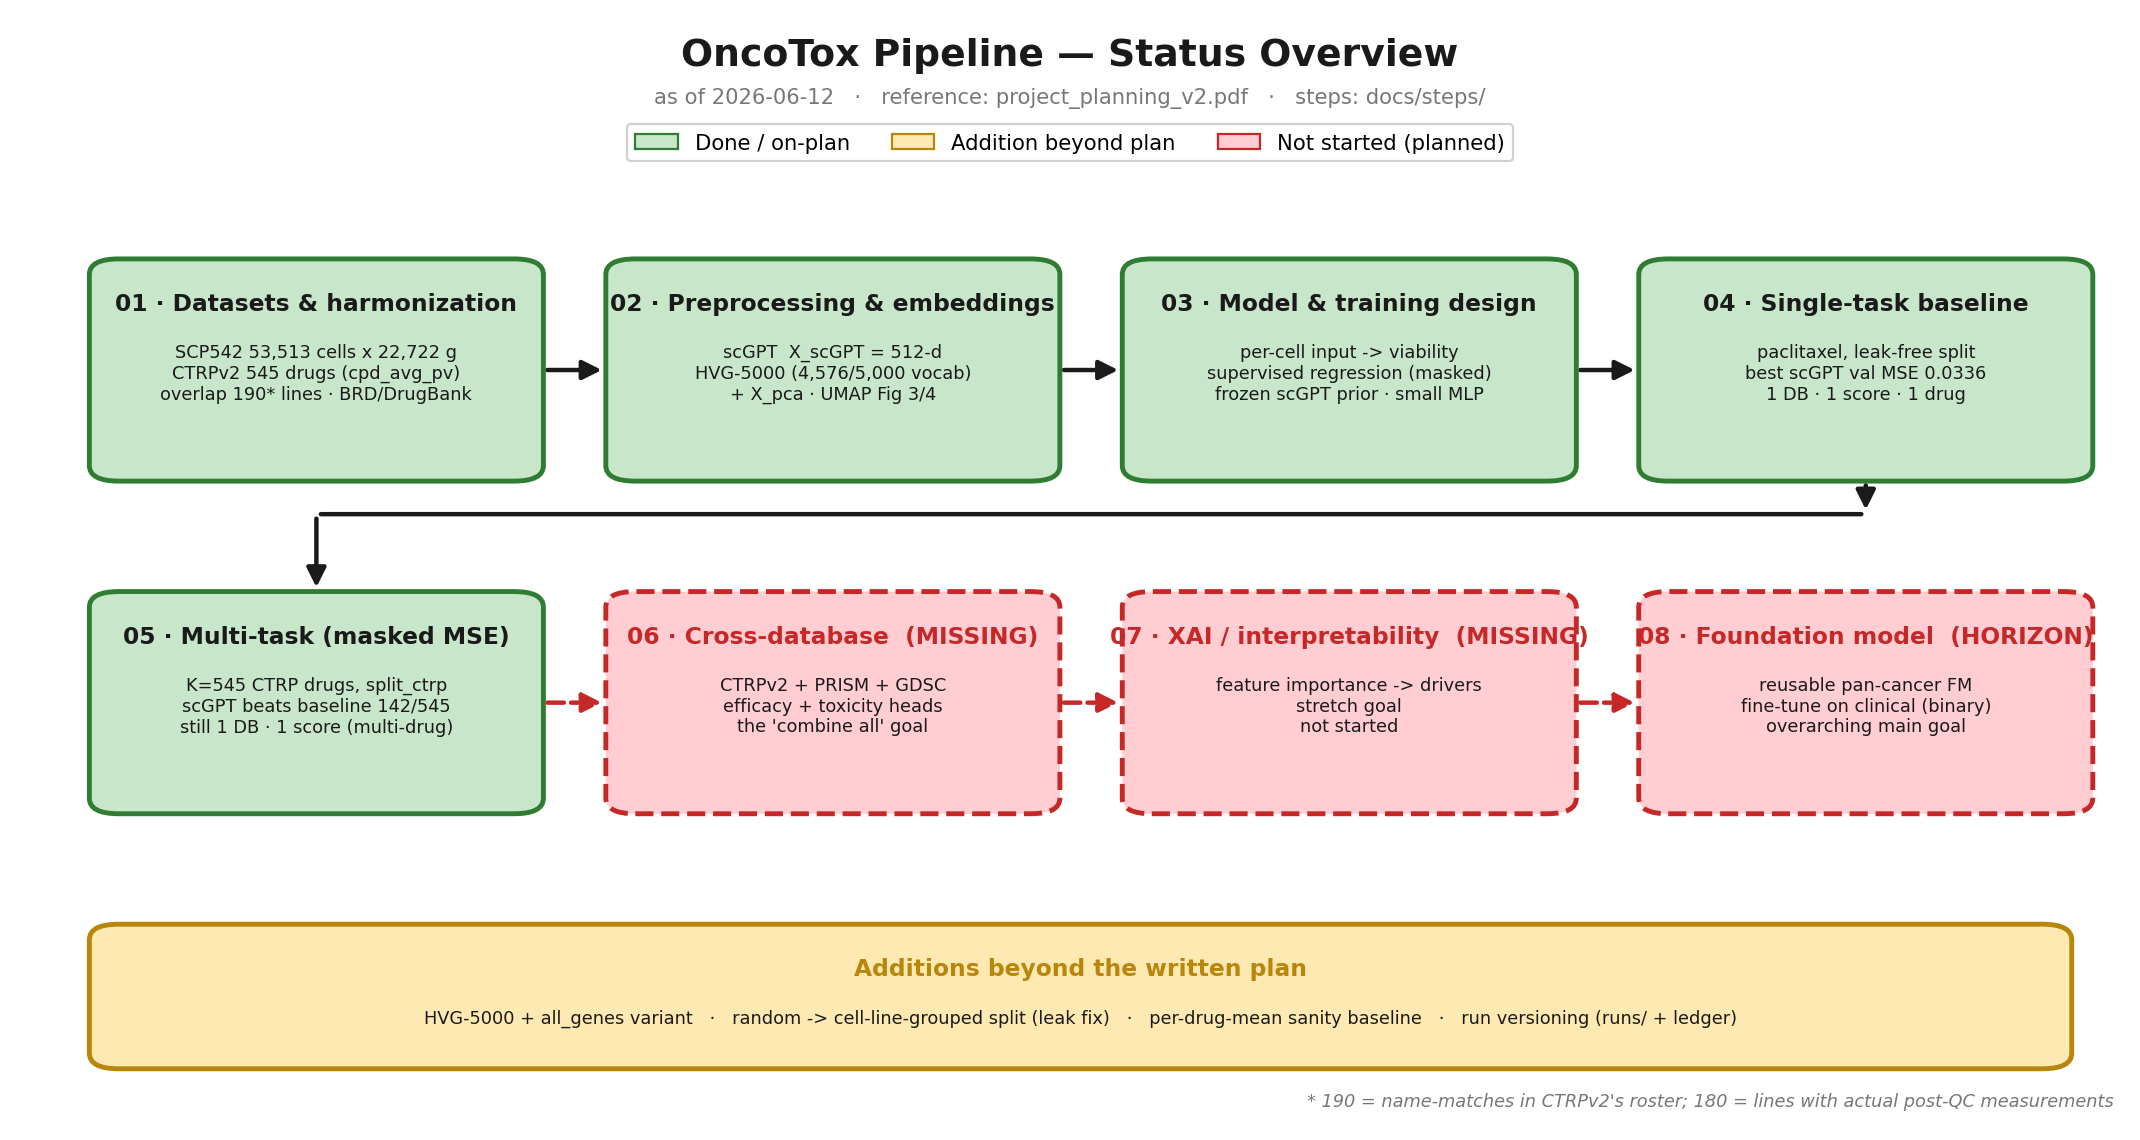
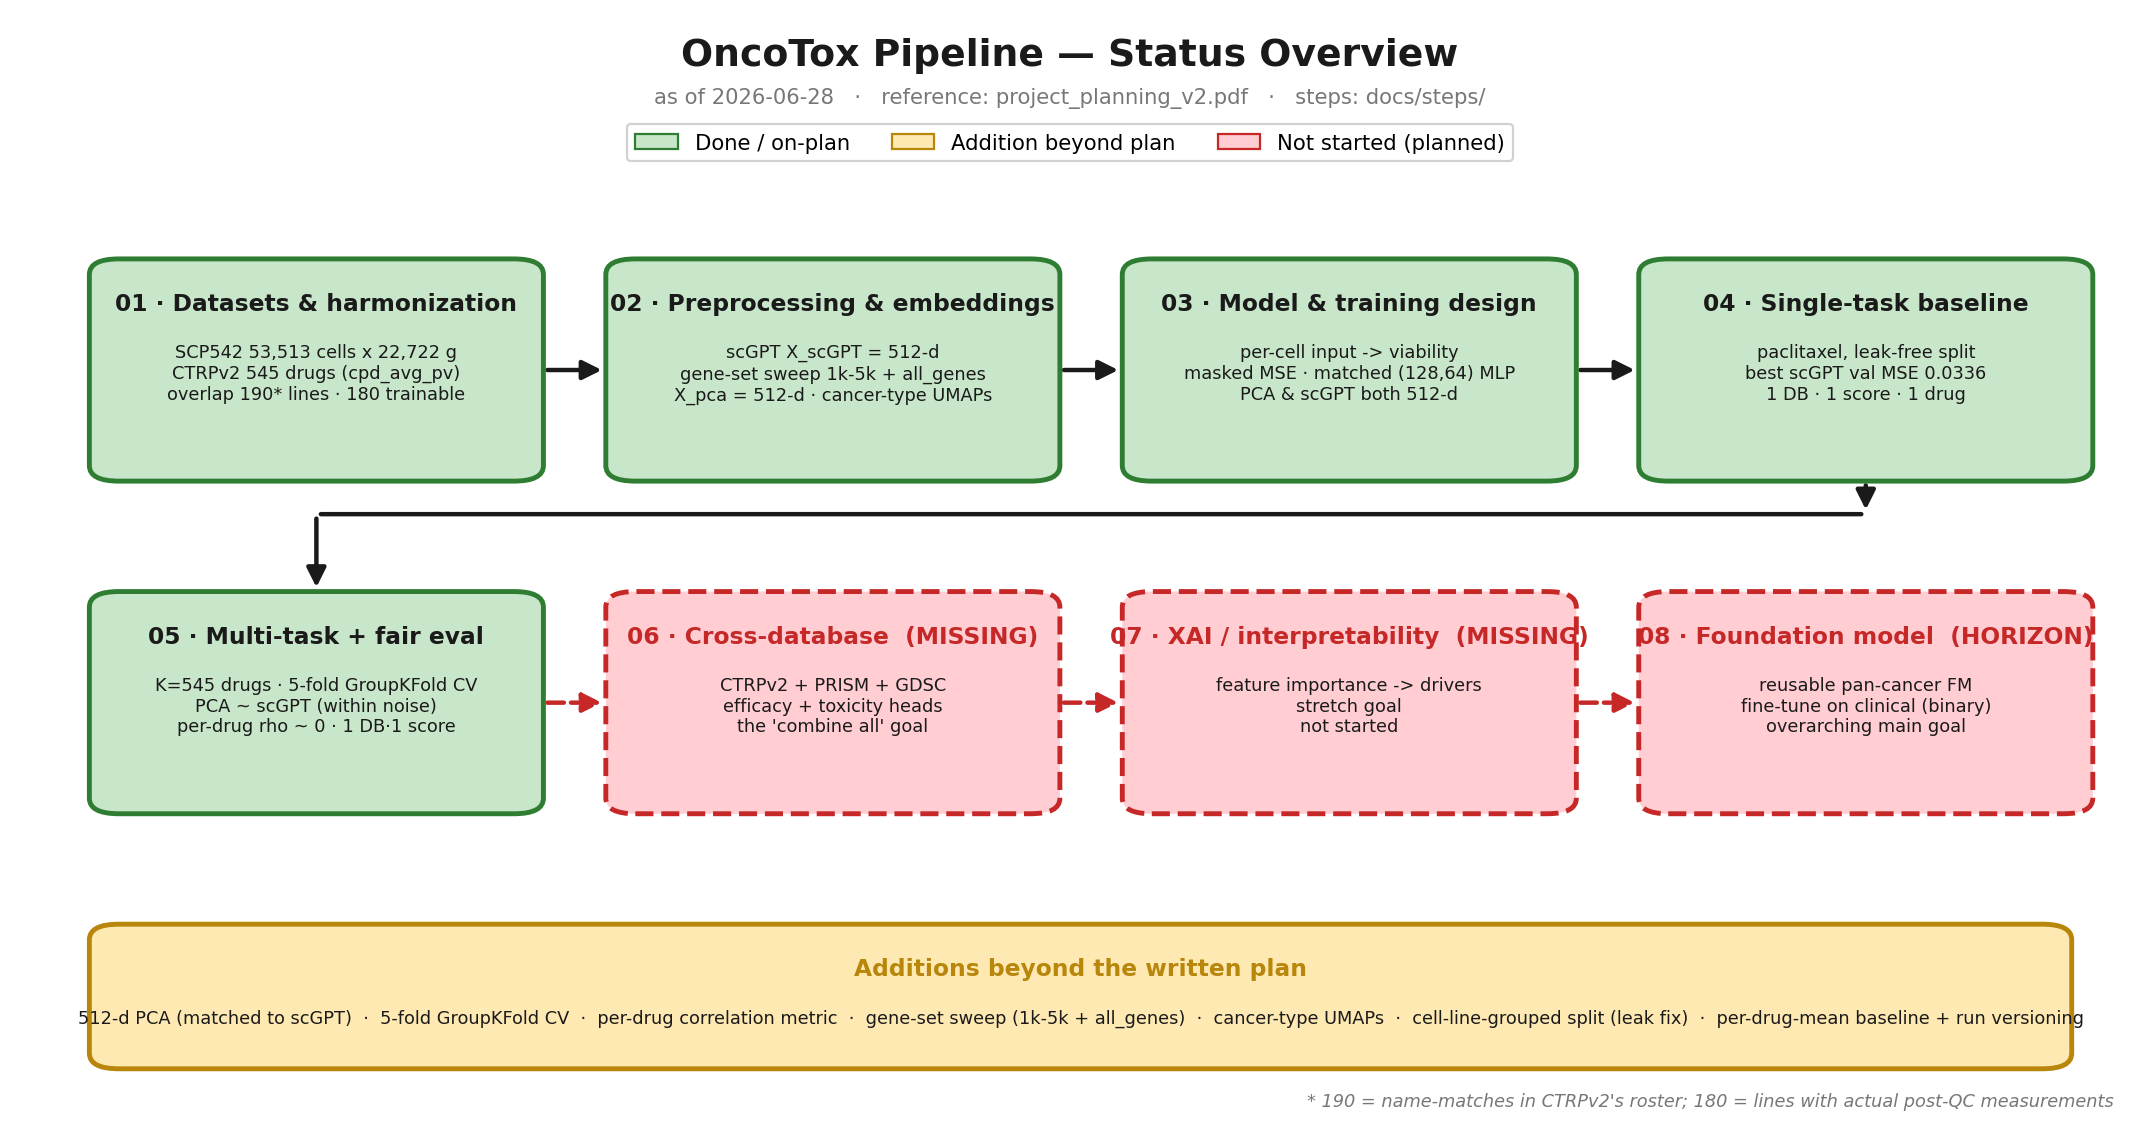
docs: refresh pipeline overview + add model/input/task figure
make_pipeline_overview.py now builds two graphics:
- pipeline_overview.png: updated to current state (512-d PCA, gene-set
  sweep, 5-fold CV "PCA ~ scGPT within noise", per-drug rho~0, refreshed
  additions band, date 2026-06-28).
- model_architecture.png (new): input + model + task on one figure
  (single cell -> 512-d X_pca/X_scGPT -> OncoMLP 512->128->64 -> 545
  drug heads -> prediction; bulk CTRPv2 target broadcast to cells +
  masked-MSE loss; leak-free split + eval note). Lets the Task and
  Model-Architecture slides be merged.

diff --git a/docs/make_pipeline_overview.py b/docs/make_pipeline_overview.py
@@ -1,11 +1,9 @@
-"""Generate docs/pipeline_overview.png — a status overview of the OncoTox pipeline.
+"""Generate the OncoTox slide/doc graphics:
 
-Layout mirrors the eight thematic step files in docs/steps/:
-  01-05 = done (green)   ·   06-08 = planned placeholders (red, dashed)
+  1. docs/pipeline_overview.png   — status overview of the whole pipeline (steps 01-08)
+  2. docs/model_architecture.png  — input + model + task on one figure (to merge slides)
 
-Green  = done / on-plan
-Amber  = done but an addition beyond the plan
-Red    = not started (still missing / horizon)
+Green = done / on-plan · Amber = addition beyond plan · Red (dashed) = not started.
 
 Run:  uv run docs/make_pipeline_overview.py
 """
@@ -20,111 +18,162 @@ import matplotlib.patches as mpatches
 from matplotlib.patches import FancyArrowPatch, FancyBboxPatch
 import matplotlib.pyplot as plt
 
-OUT = Path(__file__).resolve().parent / "pipeline_overview.png"
+HERE = Path(__file__).resolve().parent
 
-GREEN = "#2e7d32"
-GREEN_FILL = "#c8e6c9"
-AMBER = "#b8860b"
-AMBER_FILL = "#ffe9b3"
-RED = "#c62828"
-RED_FILL = "#ffcdd2"
-GREY = "#777777"
+GREEN = "#2e7d32"; GREEN_FILL = "#c8e6c9"
+AMBER = "#b8860b"; AMBER_FILL = "#ffe9b3"
+RED = "#c62828"; RED_FILL = "#ffcdd2"
+BLUE = "#1f6fb2"; BLUE_FILL = "#dbe7f3"
+GREY = "#777777"; GREY_FILL = "#e8e8e8"
 INK = "#1a1a1a"
 
-fig, ax = plt.subplots(figsize=(17.0, 9.0))
-ax.set_xlim(0, 100)
-ax.set_ylim(0, 100)
-ax.axis("off")
 
-# Grid — 4 columns x 2 rows of step boxes, plus a full-width amber band at the bottom.
-W, H = 21.5, 20
-XS = [3.5, 28.0, 52.5, 77.0]
-ROW_A, ROW_B = 58, 28
-
-
-def box(x, y, w, h, title, lines, edge, fill, title_color=None, dashed=False):
+def box(ax, x, y, w, h, title, lines, edge, fill, title_color=None, dashed=False,
+        title_size=10.5, body_size=8.0):
     ax.add_patch(FancyBboxPatch(
-        (x, y), w, h,
-        boxstyle="round,pad=0.02,rounding_size=1.4",
+        (x, y), w, h, boxstyle="round,pad=0.02,rounding_size=1.4",
         linewidth=2.2, edgecolor=edge, facecolor=fill,
-        linestyle="--" if dashed else "-", mutation_aspect=1.0, zorder=2,
-    ))
+        linestyle="--" if dashed else "-", mutation_aspect=1.0, zorder=2))
     ax.text(x + w / 2, y + h - 3.0, title, ha="center", va="top",
-            fontsize=10.5, fontweight="bold", color=title_color or INK, zorder=3)
-    ax.text(x + w / 2, y + h - 7.6, "\n".join(lines), ha="center", va="top",
-            fontsize=8.0, color=INK, zorder=3)
+            fontsize=title_size, fontweight="bold", color=title_color or INK, zorder=3)
+    if lines:
+        ax.text(x + w / 2, y + h - 7.6, "\n".join(lines), ha="center", va="top",
+                fontsize=body_size, color=INK, zorder=3)
 
 
-def arrow(x1, y1, x2, y2, color=INK, dashed=False):
-    ax.add_patch(FancyArrowPatch(
-        (x1, y1), (x2, y2), arrowstyle="-|>", mutation_scale=18,
-        linewidth=2.0, color=color, linestyle="--" if dashed else "-", zorder=1,
-    ))
+def arrow(ax, x1, y1, x2, y2, color=INK, dashed=False):
+    ax.add_patch(FancyArrowPatch((x1, y1), (x2, y2), arrowstyle="-|>", mutation_scale=18,
+                 linewidth=2.0, color=color, linestyle="--" if dashed else "-", zorder=1))
 
 
-# Title + legend
-ax.text(50, 98, "OncoTox Pipeline — Status Overview", ha="center", va="top",
-        fontsize=17, fontweight="bold", color=INK)
-ax.text(50, 93.5, "as of 2026-06-12   ·   reference: project_planning_v2.pdf   ·   steps: docs/steps/",
-        ha="center", va="top", fontsize=9.5, color=GREY)
-handles = [
-    mpatches.Patch(facecolor=GREEN_FILL, edgecolor=GREEN, label="Done / on-plan"),
-    mpatches.Patch(facecolor=AMBER_FILL, edgecolor=AMBER, label="Addition beyond plan"),
-    mpatches.Patch(facecolor=RED_FILL, edgecolor=RED, label="Not started (planned)"),
-]
-ax.legend(handles=handles, loc="center", bbox_to_anchor=(0.5, 0.885),
-          ncol=3, fontsize=9.5, frameon=True, framealpha=0.9)
+# ============================================================ 1) pipeline overview
+def build_pipeline():
+    fig, ax = plt.subplots(figsize=(17.0, 9.0))
+    ax.set_xlim(0, 100); ax.set_ylim(0, 100); ax.axis("off")
+    W, H = 21.5, 20
+    XS = [3.5, 28.0, 52.5, 77.0]
+    ROW_A, ROW_B = 58, 28
 
-# Row A — steps 01-04 (done)
-box(XS[0], ROW_A, W, H, "01 · Datasets & harmonization",
-    ["SCP542 53,513 cells x 22,722 g", "CTRPv2 545 drugs (cpd_avg_pv)",
-     "overlap 190* lines · BRD/DrugBank"], GREEN, GREEN_FILL)
-box(XS[1], ROW_A, W, H, "02 · Preprocessing & embeddings",
-    ["scGPT  X_scGPT = 512-d", "HVG-5000 (4,576/5,000 vocab)",
-     "+ X_pca · UMAP Fig 3/4"], GREEN, GREEN_FILL)
-box(XS[2], ROW_A, W, H, "03 · Model & training design",
-    ["per-cell input -> viability", "supervised regression (masked)",
-     "frozen scGPT prior · small MLP"], GREEN, GREEN_FILL)
-box(XS[3], ROW_A, W, H, "04 · Single-task baseline",
-    ["paclitaxel, leak-free split", "best scGPT val MSE 0.0336",
-     "1 DB · 1 score · 1 drug"], GREEN, GREEN_FILL)
+    ax.text(50, 98, "OncoTox Pipeline — Status Overview", ha="center", va="top",
+            fontsize=17, fontweight="bold", color=INK)
+    ax.text(50, 93.5, "as of 2026-06-28   ·   reference: project_planning_v2.pdf   ·   steps: docs/steps/",
+            ha="center", va="top", fontsize=9.5, color=GREY)
+    handles = [
+        mpatches.Patch(facecolor=GREEN_FILL, edgecolor=GREEN, label="Done / on-plan"),
+        mpatches.Patch(facecolor=AMBER_FILL, edgecolor=AMBER, label="Addition beyond plan"),
+        mpatches.Patch(facecolor=RED_FILL, edgecolor=RED, label="Not started (planned)"),
+    ]
+    ax.legend(handles=handles, loc="center", bbox_to_anchor=(0.5, 0.885),
+              ncol=3, fontsize=9.5, frameon=True, framealpha=0.9)
 
-# Row B — step 05 (done) + steps 06-08 (missing)
-box(XS[0], ROW_B, W, H, "05 · Multi-task (masked MSE)",
-    ["K=545 CTRP drugs, split_ctrp", "scGPT beats baseline 142/545",
-     "still 1 DB · 1 score (multi-drug)"], GREEN, GREEN_FILL)
-box(XS[1], ROW_B, W, H, "06 · Cross-database  (MISSING)",
-    ["CTRPv2 + PRISM + GDSC", "efficacy + toxicity heads",
-     "the 'combine all' goal"], RED, RED_FILL, title_color=RED, dashed=True)
-box(XS[2], ROW_B, W, H, "07 · XAI / interpretability  (MISSING)",
-    ["feature importance -> drivers", "stretch goal", "not started"],
-    RED, RED_FILL, title_color=RED, dashed=True)
-box(XS[3], ROW_B, W, H, "08 · Foundation model  (HORIZON)",
-    ["reusable pan-cancer FM", "fine-tune on clinical (binary)",
-     "overarching main goal"], RED, RED_FILL, title_color=RED, dashed=True)
+    box(ax, XS[0], ROW_A, W, H, "01 · Datasets & harmonization",
+        ["SCP542 53,513 cells x 22,722 g", "CTRPv2 545 drugs (cpd_avg_pv)",
+         "overlap 190* lines · 180 trainable"], GREEN, GREEN_FILL)
+    box(ax, XS[1], ROW_A, W, H, "02 · Preprocessing & embeddings",
+        ["scGPT X_scGPT = 512-d", "gene-set sweep 1k-5k + all_genes",
+         "X_pca = 512-d · cancer-type UMAPs"], GREEN, GREEN_FILL)
+    box(ax, XS[2], ROW_A, W, H, "03 · Model & training design",
+        ["per-cell input -> viability", "masked MSE · matched (128,64) MLP",
+         "PCA & scGPT both 512-d"], GREEN, GREEN_FILL)
+    box(ax, XS[3], ROW_A, W, H, "04 · Single-task baseline",
+        ["paclitaxel, leak-free split", "best scGPT val MSE 0.0336",
+         "1 DB · 1 score · 1 drug"], GREEN, GREEN_FILL)
 
-# Bottom amber band — additions beyond the written plan
-BAND_Y, BAND_H = 5, 13
-box(XS[0], BAND_Y, 94, BAND_H, "Additions beyond the written plan",
-    ["HVG-5000 + all_genes variant   ·   random -> cell-line-grouped split (leak fix)   ·   "
-     "per-drug-mean sanity baseline   ·   run versioning (runs/ + ledger)"],
-    AMBER, AMBER_FILL, title_color=AMBER)
+    box(ax, XS[0], ROW_B, W, H, "05 · Multi-task + fair eval",
+        ["K=545 drugs · 5-fold GroupKFold CV", "PCA ~ scGPT (within noise)",
+         "per-drug rho ~ 0 · 1 DB·1 score"], GREEN, GREEN_FILL)
+    box(ax, XS[1], ROW_B, W, H, "06 · Cross-database  (MISSING)",
+        ["CTRPv2 + PRISM + GDSC", "efficacy + toxicity heads",
+         "the 'combine all' goal"], RED, RED_FILL, title_color=RED, dashed=True)
+    box(ax, XS[2], ROW_B, W, H, "07 · XAI / interpretability  (MISSING)",
+        ["feature importance -> drivers", "stretch goal", "not started"],
+        RED, RED_FILL, title_color=RED, dashed=True)
+    box(ax, XS[3], ROW_B, W, H, "08 · Foundation model  (HORIZON)",
+        ["reusable pan-cancer FM", "fine-tune on clinical (binary)",
+         "overarching main goal"], RED, RED_FILL, title_color=RED, dashed=True)
 
-# Arrows — Row A (01 -> 02 -> 03 -> 04)
-for i in range(3):
-    arrow(XS[i] + W, ROW_A + H / 2, XS[i + 1], ROW_A + H / 2)
-# wrap 04 -> 05 (down from box04, across, down into box05)
-yb = ROW_A - 3.0
-arrow(XS[3] + W / 2, ROW_A, XS[3] + W / 2, yb)
-ax.add_patch(FancyArrowPatch((XS[3] + W / 2, yb), (XS[0] + W / 2, yb),
-             arrowstyle="-", linewidth=2.0, color=INK, zorder=1))
-arrow(XS[0] + W / 2, yb, XS[0] + W / 2, ROW_B + H)
-# Arrows — Row B (05 -> 06 -> 07 -> 08), dashed red into the not-yet-built chain
-for i in range(3):
-    arrow(XS[i] + W, ROW_B + H / 2, XS[i + 1], ROW_B + H / 2, color=RED, dashed=True)
+    BAND_Y, BAND_H = 5, 13
+    box(ax, XS[0], BAND_Y, 94, BAND_H, "Additions beyond the written plan",
+        ["512-d PCA (matched to scGPT)  ·  5-fold GroupKFold CV  ·  per-drug correlation metric  ·  "
+         "gene-set sweep (1k-5k + all_genes)  ·  cancer-type UMAPs  ·  cell-line-grouped split (leak fix)  ·  "
+         "per-drug-mean baseline + run versioning"],
+        AMBER, AMBER_FILL, title_color=AMBER)
 
-ax.text(99.5, 1.2, "* 190 = name-matches in CTRPv2's roster; 180 = lines with actual post-QC measurements",
-        ha="right", va="bottom", fontsize=8, color=GREY, style="italic")
+    for i in range(3):
+        arrow(ax, XS[i] + W, ROW_A + H / 2, XS[i + 1], ROW_A + H / 2)
+    yb = ROW_A - 3.0
+    arrow(ax, XS[3] + W / 2, ROW_A, XS[3] + W / 2, yb)
+    ax.add_patch(FancyArrowPatch((XS[3] + W / 2, yb), (XS[0] + W / 2, yb),
+                 arrowstyle="-", linewidth=2.0, color=INK, zorder=1))
+    arrow(ax, XS[0] + W / 2, yb, XS[0] + W / 2, ROW_B + H)
+    for i in range(3):
+        arrow(ax, XS[i] + W, ROW_B + H / 2, XS[i + 1], ROW_B + H / 2, color=RED, dashed=True)
 
-fig.savefig(OUT, dpi=160, bbox_inches="tight", facecolor="white")
-print(f"wrote {OUT}")
+    ax.text(99.5, 1.2, "* 190 = name-matches in CTRPv2's roster; 180 = lines with actual post-QC measurements",
+            ha="right", va="bottom", fontsize=8, color=GREY, style="italic")
+
+    out = HERE / "pipeline_overview.png"
+    fig.savefig(out, dpi=160, bbox_inches="tight", facecolor="white")
+    plt.close(fig)
+    print(f"wrote {out}")
+
+
+# ============================================================ 2) input + model + task
+def build_architecture():
+    fig, ax = plt.subplots(figsize=(16.0, 8.0))
+    ax.set_xlim(0, 100); ax.set_ylim(0, 100); ax.axis("off")
+
+    ax.text(50, 98, "OncoTox — Input, Model & Task", ha="center", va="top",
+            fontsize=17, fontweight="bold", color=INK)
+    ax.text(50, 93.2, "predict per-cell drug response from a single-cell embedding",
+            ha="center", va="top", fontsize=10.5, color=GREY)
+
+    # --- forward pass (top row) ---
+    yF, hF = 58, 26
+    fb = [
+        (1.5, 16, "Input", ["one single cell", "SCP542 scRNA-seq", "(53,513 cells)"]),
+        (21.0, 17, "Representation · 512-d", ["X_pca  OR  X_scGPT", "(choose via --use-rep)",
+                                              "only this differs"]),
+        (41.0, 16.5, "OncoMLP", ["512 -> 128 -> 64", "LayerNorm · dropout 0.5", "input-dropout 0.1"]),
+        (60.0, 16, "545 drug heads", ["Linear 64 -> 545", "one head per", "CTRPv2 drug"]),
+        (78.5, 18, "Prediction", ["viability per drug", "1 scalar (1 drug)", "or 545-vector (all)"]),
+    ]
+    centers = []
+    for x, w, title, lines in fb:
+        box(ax, x, yF, w, hF, title, lines, BLUE, BLUE_FILL, title_color=BLUE,
+            title_size=11, body_size=8.5)
+        centers.append((x, w))
+    for i in range(len(fb) - 1):
+        x, w = centers[i]; nx, _ = centers[i + 1]
+        arrow(ax, x + w, yF + hF / 2, nx, yF + hF / 2, color=BLUE)
+
+    # --- target + loss (bottom row) ---
+    yT, hT = 12, 26
+    box(ax, 14, yT, 34, hT, "Target — CTRPv2 viability (cpd_avg_pv)",
+        ["one BULK value per (cell line x drug)", "broadcast to all the line's cells",
+         "1.0 = no effect   ·   low = killed", "-> noisy per-cell labels"],
+        AMBER, AMBER_FILL, title_color=AMBER, title_size=10.5, body_size=8.5)
+    box(ax, 60, yT, 26, hT, "Masked MSE loss",
+        ["compares prediction vs target", "only on OBSERVED (cell, drug) pairs",
+         "(mask handles missing labels)"],
+        GREY, GREY_FILL, title_size=11, body_size=8.5)
+
+    # prediction -> loss ; target -> loss
+    px, pw = centers[-1]
+    arrow(ax, px + pw / 2, yF, 73, yT + hT, color=INK)          # prediction down into loss
+    arrow(ax, 48, yT + hT / 2, 60, yT + hT / 2, color=INK)      # target into loss
+
+    ax.text(50, 5.0,
+            "Leak-free cell-line-grouped 70/15/15 split   ·   evaluated vs a per-drug-mean baseline, "
+            "per-drug correlation, and 5-fold cross-validation",
+            ha="center", va="center", fontsize=9.5, color=GREY, style="italic")
+
+    out = HERE / "model_architecture.png"
+    fig.savefig(out, dpi=170, bbox_inches="tight", facecolor="white")
+    plt.close(fig)
+    print(f"wrote {out}")
+
+
+if __name__ == "__main__":
+    build_pipeline()
+    build_architecture()